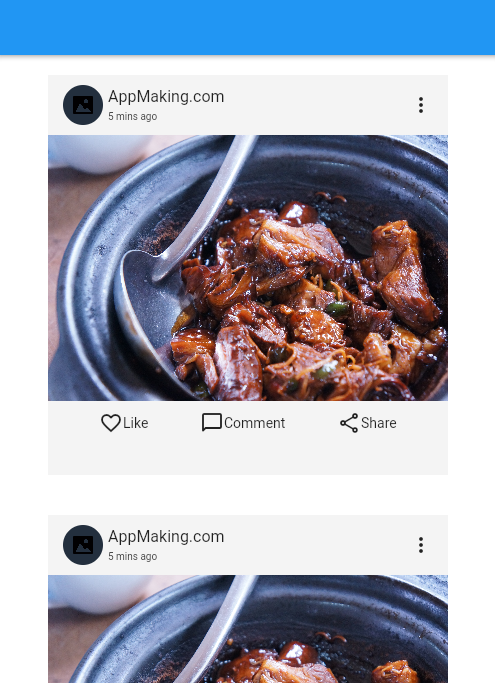
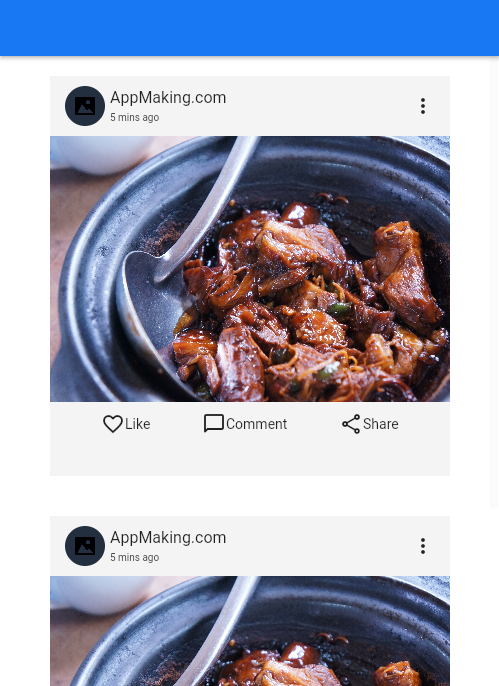
UI Design

diff --git a/ui_design/lib/screens/practice_23.dart b/ui_design/lib/screens/practice_23.dart
@@ -1,0 +1,84 @@
+import 'package:flutter/material.dart';
+
+class Practice23 extends StatelessWidget {
+  const Practice23({super.key});
+
+  @override
+  Widget build(BuildContext context) {
+    return Scaffold(
+      appBar: AppBar(
+        backgroundColor: Color(0xFF1877f2),
+      ),
+      backgroundColor: Colors.white,
+      body: GridView.builder(
+        gridDelegate: const SliverGridDelegateWithFixedCrossAxisCount(
+          crossAxisCount: 2,
+          crossAxisSpacing: 5,
+          mainAxisSpacing: 5,
+          childAspectRatio: 1.0,
+        ),
+        itemCount: 10,
+        itemBuilder: (context, index) {
+          return Container(
+            margin: const EdgeInsets.all(7),
+            child: Stack(children: [
+              Image.asset(
+                'images/fish.jpg',
+                height: double.infinity,
+                width: double.infinity,
+                fit: BoxFit.cover,
+              ),
+              const Align(
+                alignment: Alignment.topRight,
+                child: Padding(
+                  padding: EdgeInsets.all(8.0),
+                  child: CircleAvatar(
+                    radius: 15,
+                    backgroundColor: Colors.white,
+                    child: Center(
+                      child: Icon(
+                        Icons.favorite_border,
+                        color: Colors.black,
+                      ),
+                    ),
+                  ),
+                ),
+              ),
+              Align(
+                alignment: Alignment.bottomLeft,
+                child: Container(
+                  height: 50,
+                  color: Colors.blue.withOpacity(0.5),
+                  child: Row(
+                      crossAxisAlignment: CrossAxisAlignment.center,
+                      children: [
+                        Container(
+                          margin: const EdgeInsets.only(left: 5),
+                          child: Column(
+                              mainAxisAlignment: MainAxisAlignment.center,
+                              crossAxisAlignment: CrossAxisAlignment.start,
+                              children: [
+                                const Text(
+                                  "Tilapias for Sale",
+                                  style: TextStyle(
+                                      fontSize: 16, color: Colors.white),
+                                ),
+                                Container(
+                                    margin: const EdgeInsets.only(top: 3),
+                                    child: const Text(
+                                      "150\$",
+                                      style: TextStyle(
+                                          fontSize: 14, color: Colors.white),
+                                    )),
+                              ]),
+                        ),
+                      ]),
+                ),
+              )
+            ]),
+          );
+        },
+      ),
+    );
+  }
+}

diff --git a/ui_design/lib/screens/practice_17.dart b/ui_design/lib/screens/practice_17.dart
@@ -17,17 +17,24 @@ class Practice17 extends StatelessWidget {
               width: 400,
               color: const Color(0xFFf4f4f4),
               child: Stack(children: [
-                Image.asset('images/food.jpg'),
-                const Positioned(
-                  top: 10,
-                  right: 30,
-                  child: Icon(Icons.favorite_border),
+                Image.asset(
+                  'images/food.jpg',
+                  height: 250,
+                  width: 400,
+                  fit: BoxFit.cover,
+                ),
+                const Align(
+                  alignment: Alignment.topRight,
+                  child: Padding(
+                    padding: EdgeInsets.all(8.0),
+                    child: Icon(Icons.favorite_border),
+                  ),
                 ),
                 Align(
                   alignment: Alignment.bottomLeft,
                   child: Container(
                     height: 60,
-                    width: 376.5,
+                    width: double.infinity,
                     color: Colors.blue.withOpacity(0.5),
                     child: Row(
                         crossAxisAlignment: CrossAxisAlignment.center,

diff --git a/ui_design/lib/main.dart b/ui_design/lib/main.dart
@@ -1,5 +1,4 @@
 import 'package:flutter/material.dart';
-import 'package:ui_design/screens/practice_17.dart';
 import 'package:ui_design/screens/practice_22.dart';
 
 void main() {
@@ -15,7 +14,7 @@ class MyApp extends StatelessWidget {
     return MaterialApp(
       debugShowCheckedModeBanner: false,
       title: 'UI - Design Task',
-      home: const Practice17(),
+      home: const Practice22(),
     );
   }
 }

diff --git a/ui_design/lib/screens/practice_22.dart b/ui_design/lib/screens/practice_22.dart
@@ -6,7 +6,9 @@ class Practice22 extends StatelessWidget {
   @override
   Widget build(BuildContext context) {
     return Scaffold(
-        appBar: AppBar(),
+        appBar: AppBar(
+          backgroundColor: Color(0xFF1877f2),
+        ),
         backgroundColor: Colors.white,
         body: ListView(children: [
           Padding(
